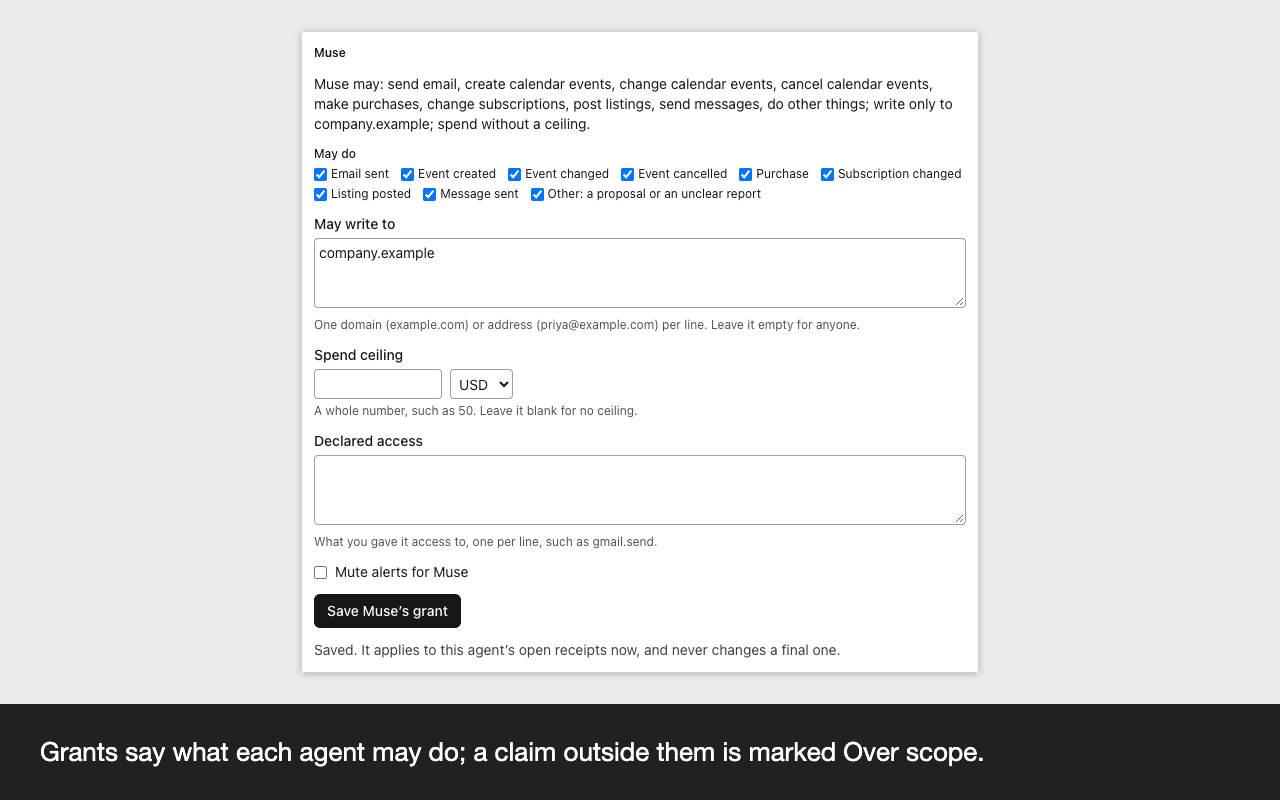
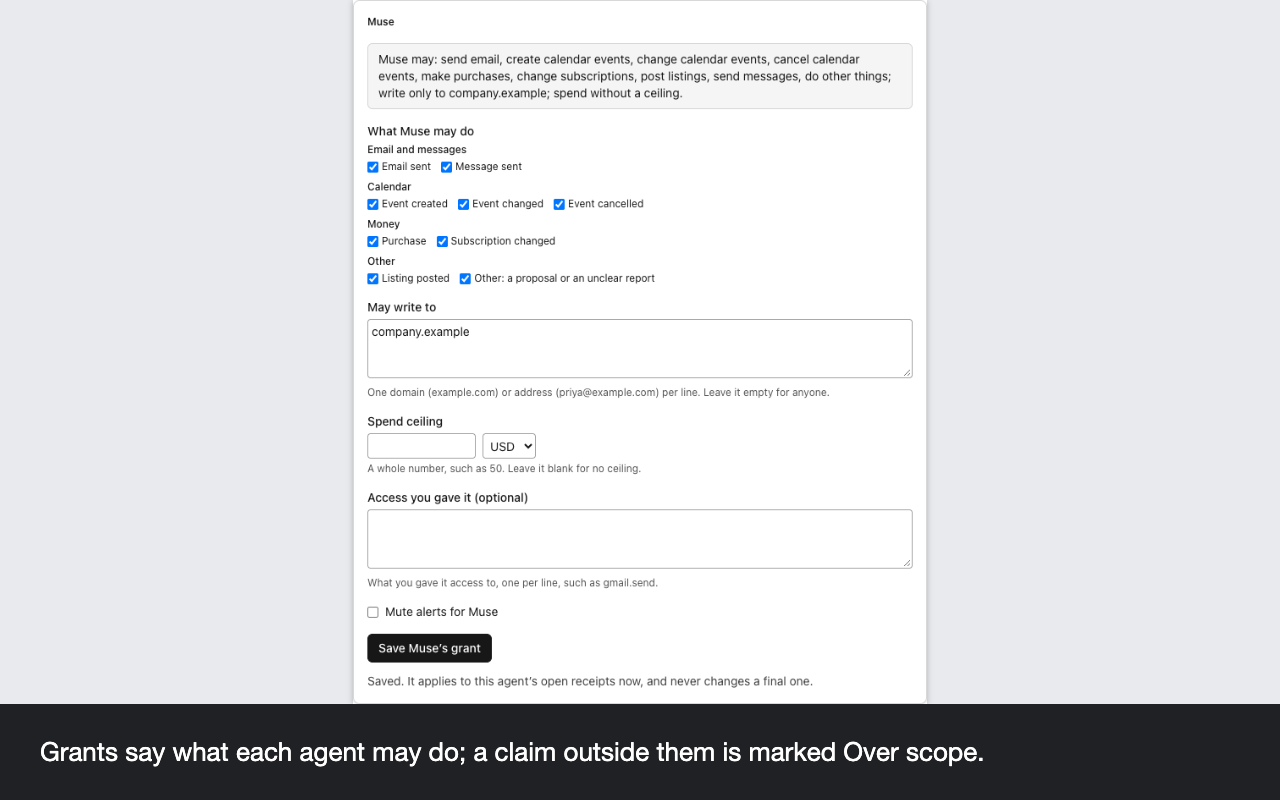
feat(ui): coverage gaps first and loud, current checks quiet; "Sent email" evidence

Changed region(s): [[0.2188, 0.0, 0.75, 0.875], [0.625, 0.1875, 0.6875, 0.2188]]

diff --git a/extension/entrypoints/options/components/AgentGrantForm.tsx b/extension/entrypoints/options/components/AgentGrantForm.tsx
@@ -16,7 +16,13 @@ export interface AgentGrantFormProps {
   readonly save: GrantSources['save'];
 }
 
-const ACTIONS = ActionType.options.map((type) => [type, claimTypeLabel(type)] as const);
+/** The actions in plain groups, so nine checkboxes read as four short questions (agents/ux_engineer.md rule 7). */
+const GROUPS: readonly (readonly [string, readonly ActionType[]])[] = [
+  ['Email and messages', ['email.sent', 'message.sent']],
+  ['Calendar', ['calendar.created', 'calendar.updated', 'calendar.deleted']],
+  ['Money', ['purchase.made', 'subscription.changed']],
+  ['Other', ['listing.posted', 'other']],
+];
 
 /**
  * One agent's grant (sprint_4 4.4; agents/ux_engineer.md rule 7): what it may do in plain language, its actions, the
@@ -31,27 +37,33 @@ export function AgentGrantForm({ agent, stored, muted, save }: AgentGrantFormPro
   return (
     <section
       aria-labelledby={`${agent}-grant`}
-      class="space-y-3 rounded border border-neutral-300 p-3 dark:border-neutral-700"
+      class="space-y-4 rounded-lg border border-rule bg-surface p-4 shadow-sm"
     >
       <h3 id={`${agent}-grant`} class="font-semibold">
         {name}
       </h3>
-      <p class="text-sm">
+      <p class="rounded-md border border-rule bg-skeleton/40 px-3 py-2 text-sm">
         {made.ok ? grantSentence(name, made.grant) : `${name}: fix the fields below to see what it may do.`}
       </p>
-      <CheckGroup
-        legend="May do"
-        options={ACTIONS}
-        checked={(type) => draft.allowedTypes.includes(type)}
-        onToggle={(type) => {
-          const on = !draft.allowedTypes.includes(type);
-          edit({
-            allowedTypes: ActionType.options.filter((each) =>
-              each === type ? on : draft.allowedTypes.includes(each),
-            ),
-          });
-        }}
-      />
+      <fieldset class="space-y-2">
+        <legend class="mb-1 text-sm font-medium text-ink">What {name} may do</legend>
+        {GROUPS.map(([legend, types]) => (
+          <CheckGroup
+            key={legend}
+            legend={legend}
+            options={types.map((type) => [type, claimTypeLabel(type)] as const)}
+            checked={(type) => draft.allowedTypes.includes(type)}
+            onToggle={(type) => {
+              const on = !draft.allowedTypes.includes(type);
+              edit({
+                allowedTypes: ActionType.options.filter((each) =>
+                  each === type ? on : draft.allowedTypes.includes(each),
+                ),
+              });
+            }}
+          />
+        ))}
+      </fieldset>
       <GrantLists agent={agent} draft={draft} errors={errors} edit={edit} />
       <label class="flex items-center gap-2 text-sm">
         <input

diff --git a/extension/src/ui/CoverageHeader.tsx b/extension/src/ui/CoverageHeader.tsx
@@ -10,20 +10,22 @@ export interface CoverageHeaderProps {
 /**
  * What Attest has checked, at the top of the popup and the side panel (agents/ux_engineer.md rule 2; the sprint's most
  * important component): each source's last check, or that it was not checked, and when each agent's activity was last
- * added. A line that is not current is drawn in the degraded yellow and says "not checked" in words, so no green chip
- * below it reads as all clear.
+ * added. A gap comes first and stays loud, in the degraded yellow and in words ("not checked"), so no green chip below
+ * it reads as all clear; every current line is quiet, one muted item with a green dot (drawn by CSS, not text).
  */
 export function CoverageHeader({ coverage, nowMs }: CoverageHeaderProps) {
+  const lines = coverageLines(coverage, nowMs);
+  const ordered = [...lines.filter((line) => !line.current), ...lines.filter((line) => line.current)];
   return (
     <section aria-label="What Attest has checked" class="text-xs">
-      <ul class="flex flex-wrap gap-x-2 gap-y-1">
-        {coverageLines(coverage, nowMs).map((line) => (
+      <ul class="flex flex-wrap items-center gap-x-3 gap-y-1">
+        {ordered.map((line) => (
           <li
             key={line.key}
             class={
               line.current
-                ? 'py-0.5 text-ink-muted'
-                : 'rounded border border-degraded-edge bg-degraded-bg px-1 py-0.5 font-medium text-degraded-fg'
+                ? "py-0.5 text-ink-muted before:mr-1 before:inline-block before:size-1.5 before:rounded-full before:bg-grade-verified-edge before:align-middle before:content-['']"
+                : 'rounded-full border border-degraded-edge bg-degraded-bg px-2 py-0.5 font-medium text-degraded-fg'
             }
           >
             {line.text}

diff --git a/extension/src/ui/receipt-labels.ts b/extension/src/ui/receipt-labels.ts
@@ -109,7 +109,7 @@ export function reportUrl(health: AdapterHealth, userAgent: string): string {
 }
 
 const EVIDENCE_KINDS: Readonly<Record<Observation['type'], string>> = Object.freeze({
-  'email.sent': 'Sent-folder row',
+  'email.sent': 'Sent email',
   'purchase.made': 'Order email',
   'subscription.changed': 'Subscription email',
   'listing.posted': 'Listing email',
@@ -120,7 +120,7 @@ const EVIDENCE_KINDS: Readonly<Record<Observation['type'], string>> = Object.fre
   other: 'Other evidence',
 });
 
-/** One piece of evidence in one line (ux_engineer rule 5): "Sent-folder row, 14:02, to priya@example.com, “Q3 deck”". */
+/** One piece of evidence in one line (ux_engineer rule 5): "Sent email, 14:02, to priya@example.com, “Q3 deck”". */
 export function evidenceSummary(observation: Observation, nowMs: number): string {
   const parts = [EVIDENCE_KINDS[observation.type], clockTime(observation.occurredAt, nowMs)];
   if (observation.counterparty !== undefined) {

diff --git a/extension/tests/e2e/sidepanel.spec.ts b/extension/tests/e2e/sidepanel.spec.ts
@@ -68,7 +68,7 @@ test('the timeline lists the pasted receipts, and a mark on one round-trips thro
 
     await email.getByRole('button', { name: /^Open details/u }).click();
     await expect(panel.getByRole('heading', { name: 'Receipt' })).toBeFocused();
-    await expect(panel.getByRole('list', { name: 'Evidence' })).toContainText('Sent-folder row');
+    await expect(panel.getByRole('list', { name: 'Evidence' })).toContainText('Sent email');
     await expect(panel.locator('dt').filter({ hasText: /^Rule$/u })).toBeVisible();
     await expect(panel.getByText('Read by')).toBeVisible();
     expect(await seriousViolations(panel)).toEqual([]);

diff --git a/extension/tests/e2e/support/launch-shots.ts b/extension/tests/e2e/support/launch-shots.ts
@@ -146,7 +146,7 @@ async function detailShot(session: VendorSession): Promise<Buffer> {
   const unasked = panel.locator('li[data-receipt]').filter({ hasText: 'Grade: Unasked' });
   await unasked.getByRole('button', { name: /^Open details/u }).click();
   await expect(panel.getByRole('heading', { name: 'Receipt' })).toBeFocused();
-  await expect(panel.getByRole('list', { name: 'Evidence' })).toContainText('Sent-folder row');
+  await expect(panel.getByRole('list', { name: 'Evidence' })).toContainText('Sent email');
   return checkedShot(panel, PANEL);
 }
 

diff --git a/extension/src/ui/EvidenceList.tsx b/extension/src/ui/EvidenceList.tsx
@@ -13,7 +13,7 @@ export interface EvidenceListProps {
 }
 
 /**
- * A receipt's evidence (agents/ux_engineer.md rule 5): each piece in one specific line ("Sent-folder row, 14:02, to
+ * A receipt's evidence (agents/ux_engineer.md rule 5): each piece in one specific line ("Sent email, 14:02, to
  * priya@example.com, “Q3 deck”"), then every field Attest stored about it, so nothing that fed the score is hidden.
  */
 export function EvidenceList({ observations, nowMs, emptyText = 'No evidence.' }: EvidenceListProps) {

diff --git a/extension/tests/unit/ui/receipt-row-labels.spec.ts b/extension/tests/unit/ui/receipt-row-labels.spec.ts
@@ -64,7 +64,7 @@ describe('receiptLine', () => {
     const orphan = Observation.parse(sent);
     const line = receiptLine(item(unasked(SIGNALS), { orphan }), NOW);
     expect(line).toBe(
-      `Sent-folder row, ${clockTime(sent.occurredAt, NOW)}, to alice@example.com, “Quarterly numbers”`,
+      `Sent email, ${clockTime(sent.occurredAt, NOW)}, to alice@example.com, “Quarterly numbers”`,
     );
     expect(receiptLine(item(unasked(SIGNALS.slice(0, 1))), NOW)).toBe('An action Attest no longer keeps');
   });

diff --git a/extension/tests/unit/ui/receipt-labels.spec.ts b/extension/tests/unit/ui/receipt-labels.spec.ts
@@ -150,7 +150,7 @@ describe('evidence', () => {
       sightedAt: iso(new Date(2026, 9, 9, 10, 3).getTime()),
       rowKeyHash: 'ab'.repeat(32),
     });
-    expect(evidenceSummary(sent, NOW)).toBe('Sent-folder row, 10:02, to priya@example.com, “Q3 deck”');
+    expect(evidenceSummary(sent, NOW)).toBe('Sent email, 10:02, to priya@example.com, “Q3 deck”');
     expect(evidenceFields(sent, NOW)).toEqual([
       ['Source', 'Gmail Sent'],
       ['What', 'Email sent'],

diff --git a/extension/entrypoints/options/components/GrantLists.tsx b/extension/entrypoints/options/components/GrantLists.tsx
@@ -35,7 +35,7 @@ export function GrantLists({ agent, draft, errors, edit }: GrantListsProps) {
       />
       <GrantTextField
         id={`${agent}-access`}
-        label="Declared access"
+        label="Access you gave it (optional)"
         hint="What you gave it access to, one per line, such as gmail.send."
         value={draft.access}
         error={errors.access}

diff --git a/CHANGELOG.md b/CHANGELOG.md
@@ -7,6 +7,8 @@ All notable changes to this project are documented here. The format follows [Kee
 ### Changed
 
 - The popup answers first: a line at the top says how many of today's receipts need a look (and how many are still checking), each receipt is a card with its grade and agent on top and the claim across the full width, and the links to the timeline, the digest and the settings sit quietly at the foot. An Unasked receipt no longer repeats its signal count, which "Why likely" shows.
+- What Attest has checked is calmer: a source not checked comes first, in yellow, and every current check is one quiet line with a green dot. A sent email in the evidence reads "Sent email, 14:02, to …" where it said "Sent-folder row".
+- A grant in the settings reads in steps: what the agent may do as a highlighted summary, its actions in four groups (email and messages, calendar, money, other), and "Access you gave it (optional)" where it said "Declared access".
 
 ## [0.1.1] - 2026-10-19
 
